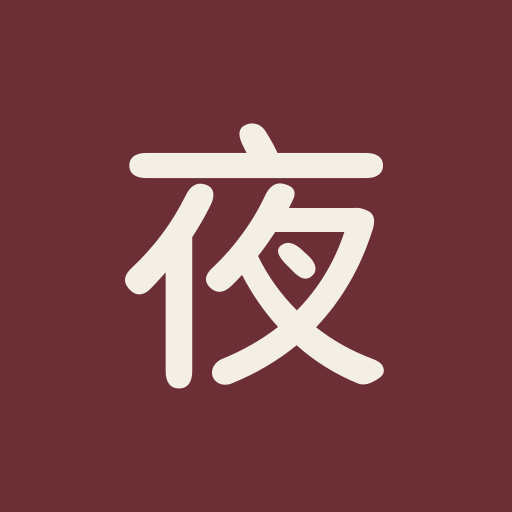
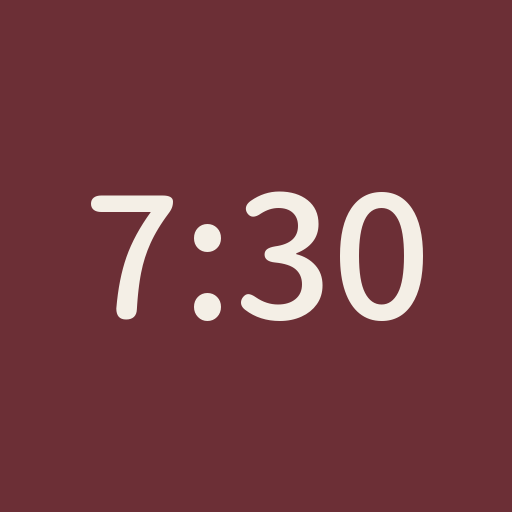
730pm v1

Changed region(s): [[0.1562, 0.2188, 0.8438, 0.7812]]

diff --git a/index.html b/index.html
@@ -3,7 +3,7 @@
 <head>
 <meta charset="utf-8">
 <meta name="viewport" content="width=device-width, initial-scale=1, viewport-fit=cover">
-<title>蚀月夜报 · 2026年10月22日</title>
+<title>730pm · 2026年10月22日</title>
 <link rel="manifest" href="manifest.json">
 <meta name="theme-color" content="#F4EFE6">
 <meta name="apple-mobile-web-app-capable" content="yes">
@@ -111,7 +111,7 @@ footer {
 <div class="wrap">
   <header>
     <div class="masthead">
-      <h1>蚀月夜报<span class="dot">.</span></h1>
+      <h1>730pm<span class="dot">.</span></h1>
       <div class="dateline">2026年10月22日 · 星期四 · 第 001 期</div>
     </div>
     <div class="sub">每天晚上七点半，世界发生了这些</div>
@@ -206,7 +206,7 @@ footer {
     </section>
   </div>
 
-  <footer>蚀月夜报 · 每日 19:30 更新 · 给不想被算法喂饭的人</footer>
+  <footer>730pm · 每日 19:30 更新 · 给不想被算法喂饭的人</footer>
 </div>
 
 <script>
@@ -216,7 +216,7 @@ footer {
   var meta = document.querySelector('meta[name=theme-color]');
   function apply(t){
     root.setAttribute('data-theme', t);
-    btn.textContent = t === 'night' ? '☀ 日间' : '☾ 夜间';
+    btn.textContent = t === 'night' ? '日间' : '夜间';
     if(meta) meta.setAttribute('content', t === 'night' ? '#17140F' : '#F4EFE6');
   }
   var saved = localStorage.getItem('newspaper-theme');

diff --git a/build.py b/build.py
@@ -10,7 +10,7 @@ TEMPLATE = """<!DOCTYPE html>
 <head>
 <meta charset="utf-8">
 <meta name="viewport" content="width=device-width, initial-scale=1, viewport-fit=cover">
-<title>蚀月夜报 · {date}</title>
+<title>730pm · {date}</title>
 <link rel="manifest" href="manifest.json">
 <meta name="theme-color" content="#F4EFE6">
 <meta name="apple-mobile-web-app-capable" content="yes">
@@ -118,7 +118,7 @@ footer {{
 <div class="wrap">
   <header>
     <div class="masthead">
-      <h1>蚀月夜报<span class="dot">.</span></h1>
+      <h1>730pm<span class="dot">.</span></h1>
       <div class="dateline">{date} · {weekday} · {issue}</div>
     </div>
     <div class="sub">每天晚上七点半，世界发生了这些</div>
@@ -136,7 +136,7 @@ footer {{
 {sections}
   </div>
 
-  <footer>蚀月夜报 · 每日 19:30 更新 · 给不想被算法喂饭的人</footer>
+  <footer>730pm · 每日 19:30 更新 · 给不想被算法喂饭的人</footer>
 </div>
 
 <script>
